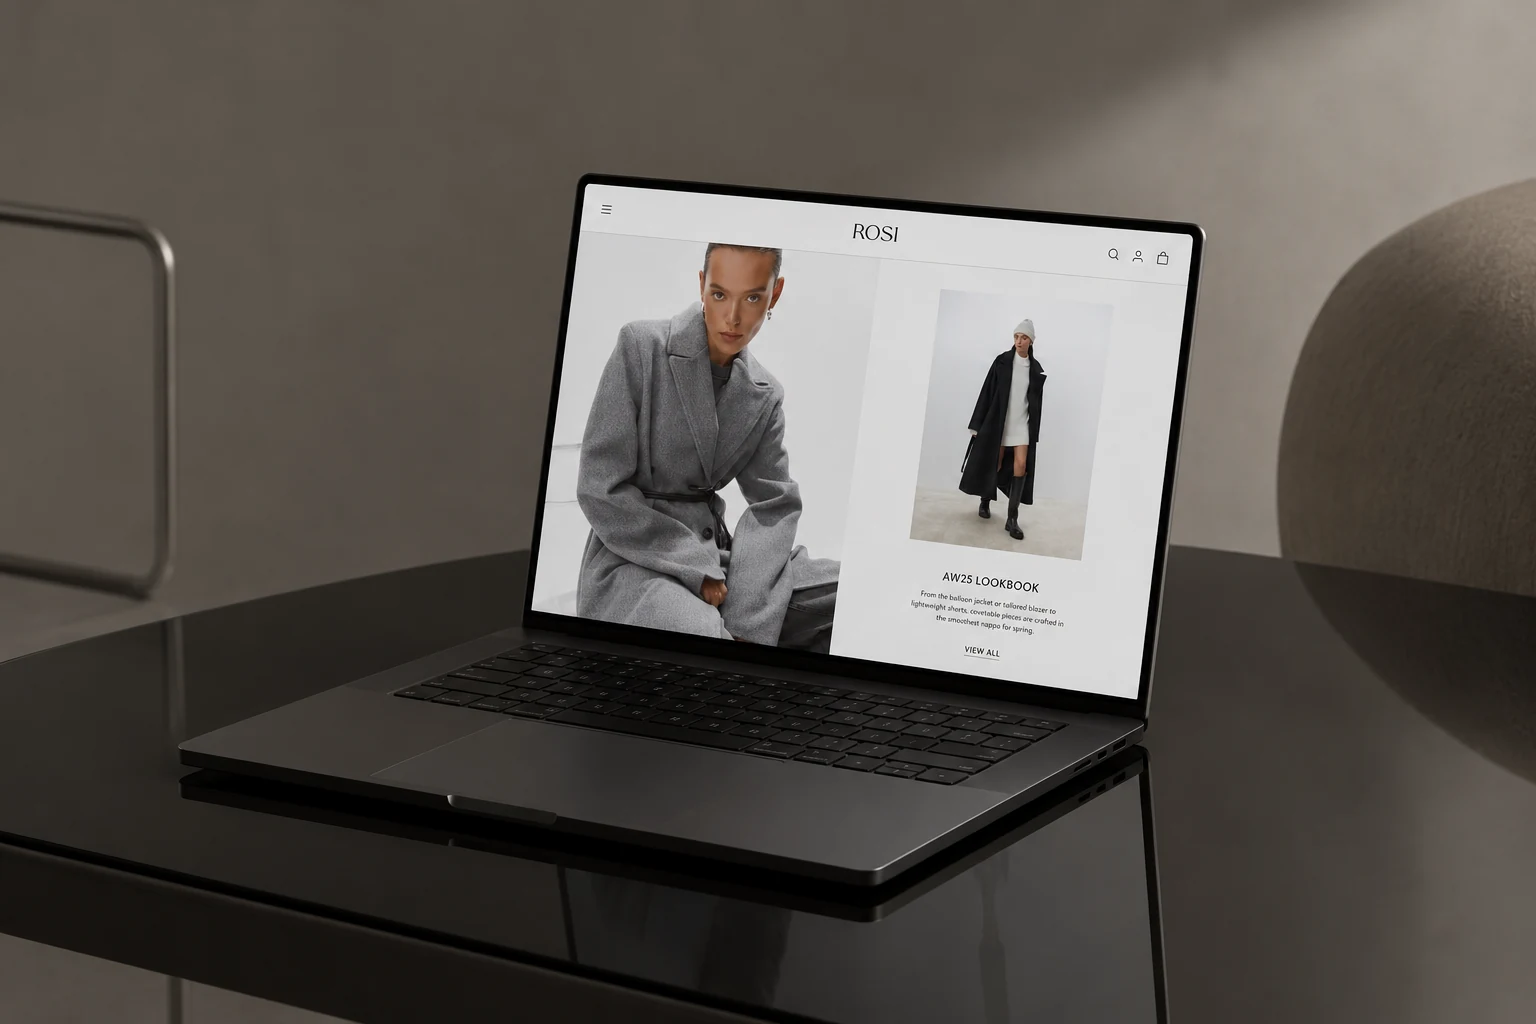
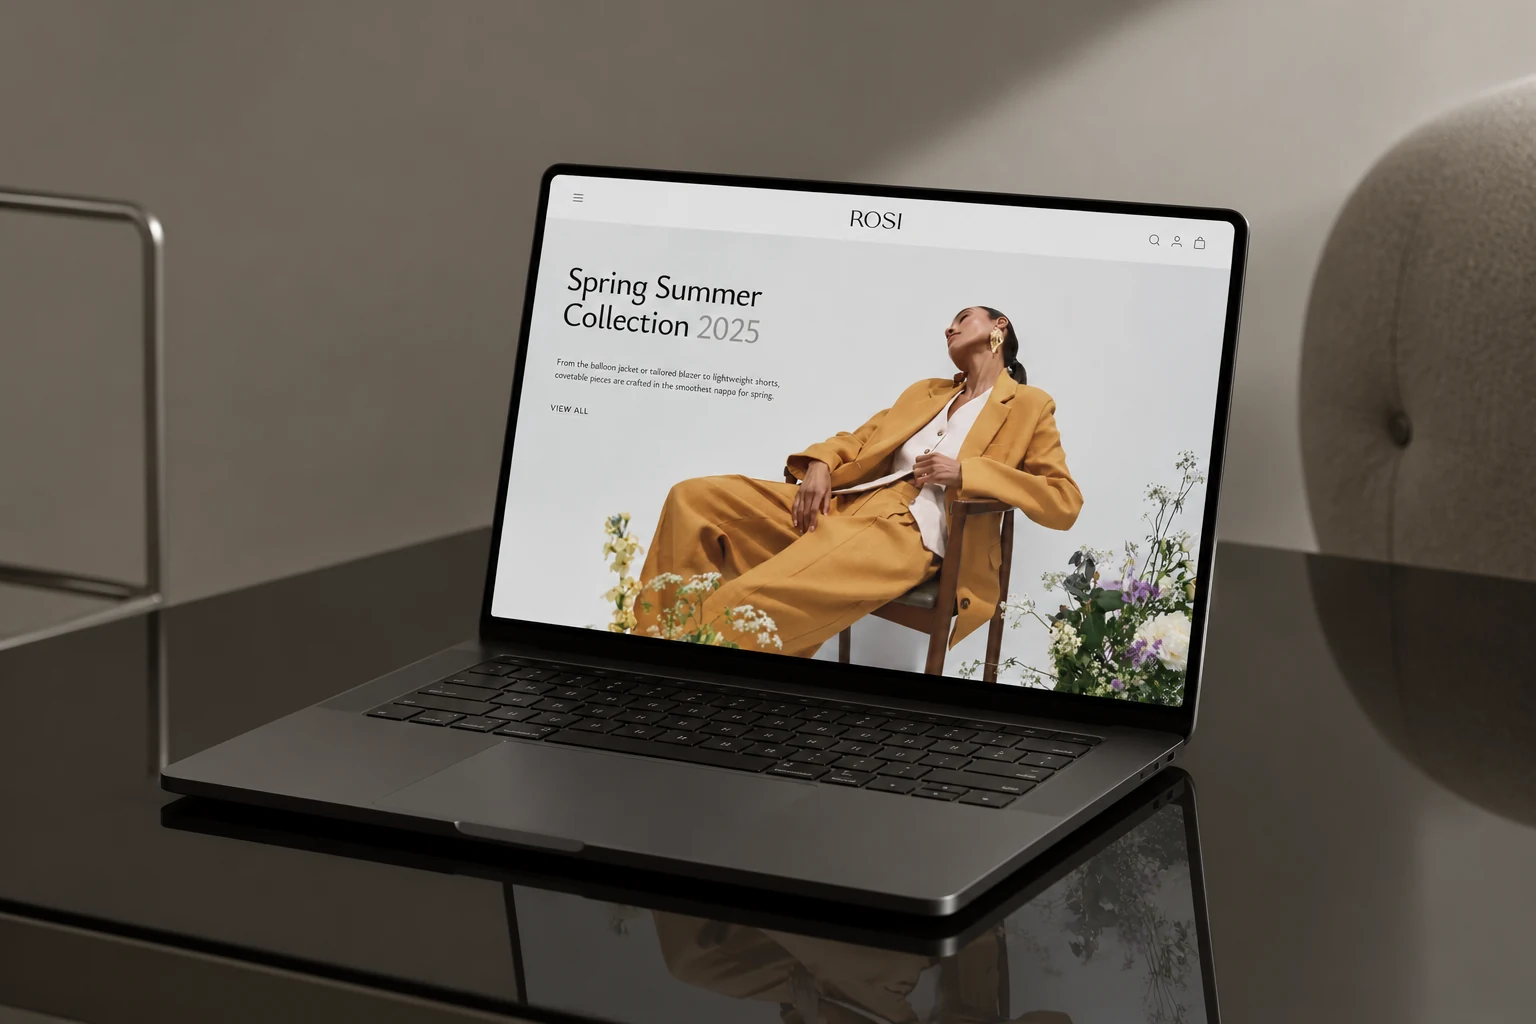
grid: новый мокап Rosi (из main)
Claude-Session: https://claude.ai/code/session_01E1toF4c21jnDN6opnPe2WP

diff --git a/js/project-preview.js b/js/project-preview.js
@@ -24,7 +24,7 @@
   // Без картинки — вместо обложки карточка с названием проекта.
   var LIST_REC = 'rec3979597501';   // Зеро-блок со списком проектов
   var PROJECTS = [
-    { name: 'Rosi',          img: 'https://optim.tildacdn.com/tild6666-6631-4862-b134-313063336533/-/format/webp/Frame_758532524_1.jpg.webp' },
+    { name: 'Rosi',          file: 'img/covers/rosi.webp' },
     { name: 'Sure',          file: 'img/covers/sure.webp' },
     { name: 'Kara Fox',      file: 'img/covers/kara-fox.webp' },
     { name: 'Black Sable',   file: 'img/covers/black-sable.webp' },
